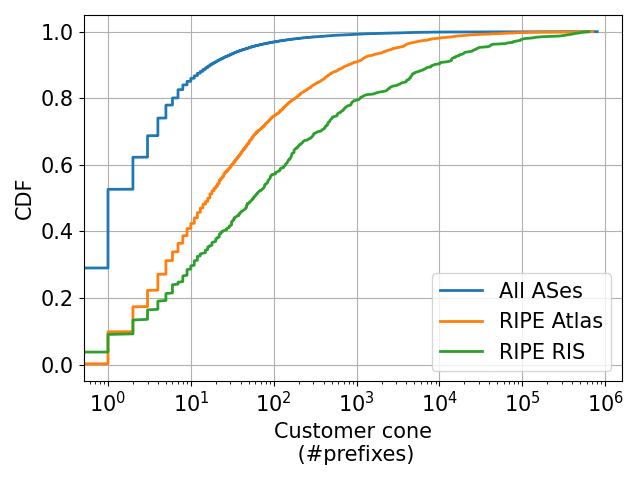
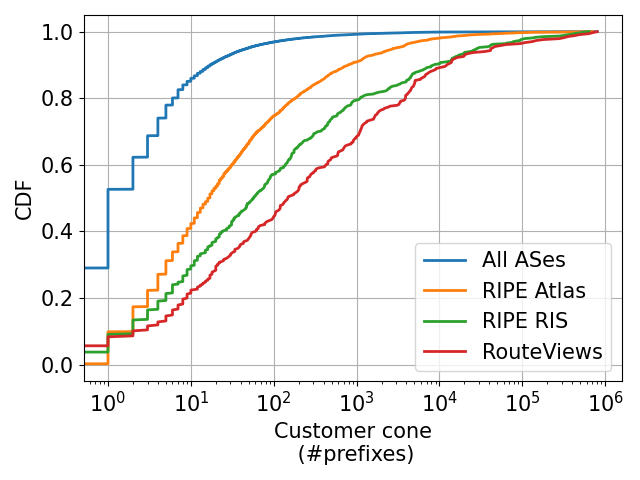
updated info in bias use case

diff --git a/use_cases/bias_in_monitoring_infrastructure/example_script_calculate_bias.py b/use_cases/bias_in_monitoring_infrastructure/example_script_calculate_bias.py
@@ -8,11 +8,12 @@ from ai4netmon.Analysis.bias import radar_chart
 
 
 
-print('####### Example 2 - bias in RIPE monitors')
-
 ## datasets
 AGGREGATE_DATA_FNAME = '../../data/aggregate_data/asn_aggregate_data_20211201.csv'
 RIPE_RIS_FNAME = '../../data/misc/RIPE_RIS_peers_ip2asn.json'
+ROUTEVIEWS_FNAME = '../../data/misc/RouteViews_peers.json'
+FIG_SAVENAME_FORMAT = './figures/fig_radar_{}.png'
+BIAS_CSV_FNAME = './data/bias_values_ris_atlas_rv.csv'
 
 ## features
 CATEGORICAL_FEATURES =  ['AS_rank_source', 'AS_rank_iso', 'AS_rank_continent', 'is_personal_AS', 'peeringDB_info_ratio', 
@@ -76,13 +77,24 @@ ris_asns = [i for i in ris_dict.values() if i in df.index]
 ris_asns_v4 = [i for k,i in ris_dict.items() if (':' not in k) and (i in df.index)]
 ris_asns_v6 = [i for k,i in ris_dict.items() if (':' in k) and (i in df.index)]
 
+with open(ROUTEVIEWS_FNAME, 'r') as f:
+    routeviews_asns = json.load(f)
+routeviews_asns = [i for i in routeviews_asns if i in df.index]
 
 ## calculate bias for all features
 bias_df = pd.DataFrame(index=FEATURES)
 bias_df_tv = pd.DataFrame(index=FEATURES)
 bias_df_max = pd.DataFrame(index=FEATURES)
 
-network_sets = ['all', 'RIPE RIS (all)', 'RIPE RIS (v4)', 'RIPE RIS (v6)', 'RIPE Atlas (all)', 'RIPE Atlas (v4)', 'RIPE Atlas (v6)']
+NETWORK_SETS = ['all', 
+                'RIPE RIS (all)', 
+                'RIPE RIS (v4)', 
+                'RIPE RIS (v6)', 
+                'RIPE Atlas (all)', 
+                'RIPE Atlas (v4)', 
+                'RIPE Atlas (v6)', 
+                'RouteViews (all)',
+                'RIPE RIS + RouteViews (all)']
 network_sets_dict = dict()
 network_sets_dict['all'] = df
 network_sets_dict['RIPE RIS (all)'] = df.loc[ris_asns]
@@ -91,13 +103,15 @@ network_sets_dict['RIPE RIS (v6)'] = df.loc[ris_asns_v6]
 network_sets_dict['RIPE Atlas (all)'] = df.loc[ (df['nb_atlas_probes_v4'] >0) | (df['nb_atlas_probes_v6'] >0) ]
 network_sets_dict['RIPE Atlas (v4)'] = df.loc[df['nb_atlas_probes_v4'] >0]
 network_sets_dict['RIPE Atlas (v6)'] = df.loc[df['nb_atlas_probes_v6'] >0]
+network_sets_dict['RouteViews (all)'] = df.loc[routeviews_asns]
+network_sets_dict['RIPE RIS + RouteViews (all)'] = df.loc[ris_asns+routeviews_asns]
 
 
 
 for feature in FEATURES:
 	params={'data_type':get_feature_type(feature), 'bins':10, 'alpha':0.01}
 	network_data_processed = dict()
-	for s in network_sets:
+	for s in NETWORK_SETS:
 		d = network_sets_dict[s][feature].copy()
 		d = d[(d.notnull())]
 		if params['data_type'] == 'numerical': # pre-processing for the numerical cases
@@ -106,23 +120,35 @@ for feature in FEATURES:
 			d[np.isinf(d)] = -0.1
 		network_data_processed[s] = d
 
-	for s in network_sets[1:]:
+	for s in NETWORK_SETS[1:]:
 		bias_df.loc[feature,s] = bu.bias_score(network_data_processed['all'], network_data_processed[s], method='kl_divergence', **params)
 		bias_df_tv.loc[feature,s] = bu.bias_score(network_data_processed['all'], network_data_processed[s], method='total_variation', **params)
 		bias_df_max.loc[feature,s] = bu.bias_score(network_data_processed['all'], network_data_processed[s], method='max_variation', **params)
 
 print('Bias per monitor set (columns) and per feature (rows)')
-print_df = bias_df[['RIPE RIS (all)','RIPE Atlas (all)']].copy()
+print_df = bias_df[['RIPE RIS (all)','RIPE Atlas (all)', 'RouteViews (all)']].copy()
 print_df.index = [n.replace('\n','') for n in FEATURE_NAMES_DICT.values()]
+# print results
 print(print_df.round(2))
+# save results to file
+print_df.round(4).to_csv(BIAS_CSV_FNAME, header=True, index=True)
 
 
 ## plot the radar plot of biases
-plot_df = bias_df[network_sets[1:]]
-radar_chart.plot_radar_from_dataframe(plot_df, colors=None, frame='polygon', save_filename='fig_radar_detailed.png', varlabels=FEATURE_NAMES_DICT)
+# all RIPE - details
+plot_df = bias_df[['RIPE RIS (all)', 'RIPE RIS (v4)', 'RIPE RIS (v6)', 'RIPE Atlas (all)', 'RIPE Atlas (v4)', 'RIPE Atlas (v6)']]
+radar_chart.plot_radar_from_dataframe(plot_df, colors=None, frame='polygon', save_filename=FIG_SAVENAME_FORMAT.format('RIPE_detailed'), varlabels=FEATURE_NAMES_DICT)
+# all RIPE
 plot_df = bias_df[['RIPE RIS (all)','RIPE Atlas (all)']]
-radar_chart.plot_radar_from_dataframe(plot_df, colors=None, frame='polygon', save_filename='fig_radar.png', varlabels=FEATURE_NAMES_DICT)
+radar_chart.plot_radar_from_dataframe(plot_df, colors=None, frame='polygon', save_filename=FIG_SAVENAME_FORMAT.format('RIPE'), varlabels=FEATURE_NAMES_DICT)
+# all RIPE - TV
 plot_df = bias_df_tv[['RIPE RIS (all)','RIPE Atlas (all)']]
-radar_chart.plot_radar_from_dataframe(plot_df, colors=None, frame='polygon', save_filename='fig_radar_tv.png', varlabels=FEATURE_NAMES_DICT)
+radar_chart.plot_radar_from_dataframe(plot_df, colors=None, frame='polygon', save_filename=FIG_SAVENAME_FORMAT.format('RIPE_tv'), varlabels=FEATURE_NAMES_DICT)
+# all RIPE - Max
 plot_df = bias_df_max[['RIPE RIS (all)','RIPE Atlas (all)']]
-radar_chart.plot_radar_from_dataframe(plot_df, colors=None, frame='polygon', save_filename='fig_radar_max.png', varlabels=FEATURE_NAMES_DICT)
+radar_chart.plot_radar_from_dataframe(plot_df, colors=None, frame='polygon', save_filename=FIG_SAVENAME_FORMAT.format('RIPE_max'), varlabels=FEATURE_NAMES_DICT)
+# all RIPE + RouteViews
+plot_df = bias_df[['RIPE RIS (all)','RouteViews (all)']]
+radar_chart.plot_radar_from_dataframe(plot_df, colors=None, frame='polygon', save_filename=FIG_SAVENAME_FORMAT.format('RIPE_RV'), varlabels=FEATURE_NAMES_DICT)
+plot_df = bias_df_tv[['RIPE RIS (all)','RouteViews (all)']]
+radar_chart.plot_radar_from_dataframe(plot_df, colors=None, frame='polygon', save_filename=FIG_SAVENAME_FORMAT.format('RIPE_RV_tv'), varlabels=FEATURE_NAMES_DICT)

diff --git a/use_cases/bias_in_monitoring_infrastructure/generate_distribution_plots.py b/use_cases/bias_in_monitoring_infrastructure/generate_distribution_plots.py
@@ -16,6 +16,7 @@ SAVE_TO_JSON = False
 ## data parameters
 DATA_FILE = '../../data/aggregate_data/asn_aggregate_data_20211201.csv'
 RIPE_RIS_DATA_FILE = '../../data/misc/RIPE_RIS_peers_ip2asn.json'
+ROUTEVIEWS_FNAME = '../../data/misc/RouteViews_peers.json'
 SAVE_PLOTS_FNAME_FORMAT = './figures/Fig_{}_{}' # the first brackets to be filled with 'CDF' or 'Histogram', and the second with the feature name
 
 CDF_features = ['AS_rank_numberAsns', 'AS_rank_numberPrefixes', 'AS_rank_numberAddresses','AS_rank_total','AS_rank_customer', 
@@ -155,9 +156,13 @@ ris_asns = pd.read_json(RIPE_RIS_DATA_FILE, orient='index')[0].unique().tolist()
 ris_asns = [i for i in ris_asns if i in df.index]
 df_ris = df.loc[ris_asns,:]
 
+routeviews_asns = pd.read_json(ROUTEVIEWS_FNAME)[0].unique().tolist()
+routeviews_asns = [i for i in routeviews_asns if i in df.index]
+df_rv = df.loc[routeviews_asns,:]
+
 
 ## generate json (and plots)
-dict_network_sets = {'All ASes': df, 'RIPE Atlas': df_atlas, 'RIPE RIS': df_ris}
+dict_network_sets = {'All ASes': df, 'RIPE Atlas': df_atlas, 'RIPE RIS': df_ris, 'RouteViews': df_rv}
 for feature in CDF_features:
     data = generate_plot_json(feature, 'CDF', dict_network_sets)
     filename_no_ext = SAVE_PLOTS_FNAME_FORMAT.format('CDF',feature)

diff --git a/use_cases/bias_in_monitoring_infrastructure/README.md b/use_cases/bias_in_monitoring_infrastructure/README.md
@@ -1,80 +1,99 @@
-## Use case: Quantifying the bias in the Internet monitoring infrastructure
+# Use case: Quantifying the bias in the Internet monitoring infrastructure
 
 The Internet monitoring infrastructure is not uniformly deployed in ASes. It is known that there are biases towards network sizes or types (e.g., large ISPs) or location (e.g., more monitors in Europe). The analysis and results aim to answer questions such as:
 * How biased is the infrastructure? (e.g., from a scale from 0 to 1, where 0 is no bias)
-* Is RIPE RIS more biased than RIPE Atlas? If yes, how much?
+* Is RIPE RIS more biased than RIPE Atlas? If yes, how much? What about RouteViews?
 * Is the infrastructure more biased in terms of location or network sizes?
 
 
-### Bias metrics
+#### Table of Contents  
+- [Bias metrics](#bias-metrics)  
+- [Results: Bias in Interent monitoring](#results-bias-in-interent-monitoring-infrastructure)  
+- [Results: Detailed distributions](#results-detailed-distributions)
+
+
+
+## Bias metrics
 To quantify the bias along a dimension (e.g., network type _peeringDB_info_type_), we compare the distribution of all ASes vs the distribution of the ASes that host monitors. For example, let the fraction of all ASes with specific types be _{large network: 0.2, medium network: 0.3, small network: 0.5}_ and the fraction of ASes with monitors be _{large network: 0.4, medium network: 0.4, small network: 0.2}_; then we need to quantify the difference among the two distributions represented by the vectors _[0.2, 0.3, 0.5]_ and _[0.4, 0.4, 0.2]_. To quantify the difference in the two distributions, we can use any of the following metrics 
-- [Kullback–Leibler (KL) divergence]( https://en.wikipedia.org/wiki/Kullback%E2%80%93Leibler_divergence ) (in fact, we use a smoothed version to bound it to values up to 1); _unless otherwise specified, this is the default metric we use_
-- [Total variation (TV) distance]( https://en.wikipedia.org/wiki/Total_variation_distance_of_probability_measures ), which is the sum of the distances of two distributions P and Q (or, the L1 norm), i.e., _TV=0.5*sum{|P-Q|}_
-- Max variation distance, which is the max distances among two distributions P and Q (or, the L1-inf norm), i.e., _max{|P-Q|}_
+- [**Kullback–Leibler (KL) divergence**]( https://en.wikipedia.org/wiki/Kullback%E2%80%93Leibler_divergence ) (in fact, we use a smoothed version to bound it to values up to 1); _unless otherwise specified, this is the default metric we use_
+- [**Total variation (TV) distance**]( https://en.wikipedia.org/wiki/Total_variation_distance_of_probability_measures ), which is the sum of the distances of two distributions P and Q (or, the L1 norm), i.e., _TV=0.5*sum{|P-Q|}_
+- **Max variation distance**, which is the max distances among two distributions P and Q (or, the L1-inf norm), i.e., _max{|P-Q|}_
 
 All metrics take values in the interval [0,1], where 0 corresponds to no bias, and larger values correspond to more bias. Each metric has a different interpretation, and results from one metric should not be compared with results from another metric in a quantitative way (only qualitative comparison).
 
+## Results: Bias in Interent monitoring infrastructure 
+The results below are generated with the script `example_script_calculate_bias.py`, which calculates the bias of monitoring infrastructure along different dimentions, and (i) prints the results in the terminal, (ii) saves them in a csv file (folder `./data`) and (ii) generates radar plots for visualizing the bias.
 
-### Results: Bias in RIPE NCC infrastructure 
-The results below are generated with the script `example_script_calculate_bias.py`, which calculates the bias of monitoring infrastructure along different dimentions, and (i) prints the results in the terminal and (ii) generates radar plots for visualizing the bias
-
-
+#### Overview - Table with bias values 
 The following table shows the bias of each set of monitors (columns) along different dimensions (rows)
 ```
-                                      RIPE RIS (all)    RIPE Atlas (all)
+                                      RIPE RIS (all)    RIPE Atlas (all)  RouteViews (all)
 ### LOCATION INFO ###
-RIR region                            0.06              0.06
-Location (country)                    0.22              0.10
-Location (continent)                  0.06              0.06
+RIR region                            0.06              0.06              0.00
+Location (country)                    0.22              0.10              0.21
+Location (continent)                  0.06              0.06              0.01
 
 ### NETWORK SIZE INFO ### 
-Customer cone (#ASNs)                 0.22              0.07
-Customer cone (#prefixes)             0.25              0.11
-Customer cone (#addresses)            0.28              0.23
-AS hegemony                           0.16              0.04
+Customer cone (#ASNs)                 0.22              0.07              0.23
+Customer cone (#prefixes)             0.25              0.11              0.31
+Customer cone (#addresses)            0.28              0.23              0.28
+AS hegemony                           0.16              0.04              0.18
 
 ### TOPOLOGY INFO ###
-#neighbors (total)                    0.57              0.12
-#neighbors (peers)                    0.55              0.07
-#neighbors (customers)                0.20              0.06
-#neighbors (providers)                0.18              0.06
+#neighbors (total)                    0.57              0.12              0.44
+#neighbors (peers)                    0.55              0.07              0.44
+#neighbors (customers)                0.20              0.06              0.22
+#neighbors (providers)                0.18              0.06              0.16
 
 ### IXP-RELATED INFO ###
-#IXPs (PeeringDB)                     0.25              0.03
-#facilities (PeeringDB)               0.20              0.03
-Peering policy (PeeringDB)            0.03              0.01
+#IXPs (PeeringDB)                     0.25              0.03              0.23
+#facilities (PeeringDB)               0.20              0.03              0.18
+Peering policy (PeeringDB)            0.03              0.01              0.02
 
 ### NETWORK TYPE INFO ###
-Network type (PeeringDB)              0.15              0.03
-Traffic ratio (PeeringDB)             0.12              0.02
-Traffic volume (PeeringDB)            0.08              0.02
-Scope (PeeringDB)                     0.16              0.04
-Personal ASN                          0.00              0.00
+Network type (PeeringDB)              0.15              0.03              0.13
+Traffic ratio (PeeringDB)             0.12              0.02              0.09
+Traffic volume (PeeringDB)            0.08              0.02              0.13
+Scope (PeeringDB)                     0.16              0.04              0.17
+Personal ASN                          0.00              0.00              0.00
+
 ```
 
+
+
+#### Overview - Bias in RIPE infrastructure
 A visual presentation of the bias is given below in the radar plot on the left (reminder: larger values, i.e., far from the center, corresponds to more bias); on the right, a more detailed version of the same plot, where the bias is depicted for IPv4 and IPv6 set of monitors
 
 
-Radar plot - bias             |  Radar plot - bias detailed
+RIPE - bias - radar plot             |  RIPE - bias - radar plot (detailed)
 :-------------------------:|:-------------------------:
-![Radar plot - bias](./figures/fig_radar.png?raw=true)  |  ![Radar plot - bias detailed](./figures/fig_radar_detailed.png?raw=true)
+![Radar plot - bias](./figures/fig_radar_RIPE.png?raw=true)  |  ![Radar plot - bias detailed](./figures/fig_radar_RIPE_detailed.png?raw=true)
 
 
 
 Below the same plot with using as bias metrics the Total variation and Max variation distances
 
-Total Variation             |  Max Variation
+RIPE - bias (Total Variation)             |  RIPE - bias (Max Variation)
 :-------------------------:|:-------------------------:
-![Radar plot - bias - tv](./figures/fig_radar_tv.png?raw=true)  |  ![Radar plot - bias - max](./figures/fig_radar_max.png?raw=true)
+![Radar plot - bias - tv](./figures/fig_radar_RIPE_tv.png?raw=true)  |  ![Radar plot - bias - max](./figures/fig_radar_RIPE_max.png?raw=true)
+
+
+
+#### Bias in RIPE RIS vs. RouteViews route collectors
+
+Below we compare the bias between RIPE RIS and RouteViews route collectors
+
+RIPE vs RouteViews - bias (KL)             |  RIPE vs RouteViews - bias (TV)
+:-------------------------:|:-------------------------:
+![Radar plot - bias - ripe rv](./figures/fig_radar_RIPE_RV.png?raw=true)  |  ![Radar plot - bias - ripe rv tv](./figures/fig_radar_RIPE_RV_tv.png?raw=true)
 
 
 
 
 
+## Results: Detailed distributions
 
-### Results: Detailed distributions per dimension (based on which the bias is calculated)
-
-The following figures depict the distributions of values for all ASes and for RIPE NCC monitors, along different dimensions. CDFs are used for numerical dimensions (e.g., number of neighbors), and histograms for categorical dimensions (e.g., type of network).
+Here, we present the detailed distributions per dimension (based on which the bias is calculated). The following figures depict the distributions of values for all ASes and for RIPE NCC monitors, along different dimensions. CDFs are used for numerical dimensions (e.g., number of neighbors), and histograms for categorical dimensions (e.g., type of network).
 
 You can click on a figure to zoom in. The results below are generated with the script `generate_distribution_plots.py`. All images can be found in the `./figures/` folder.  
 
